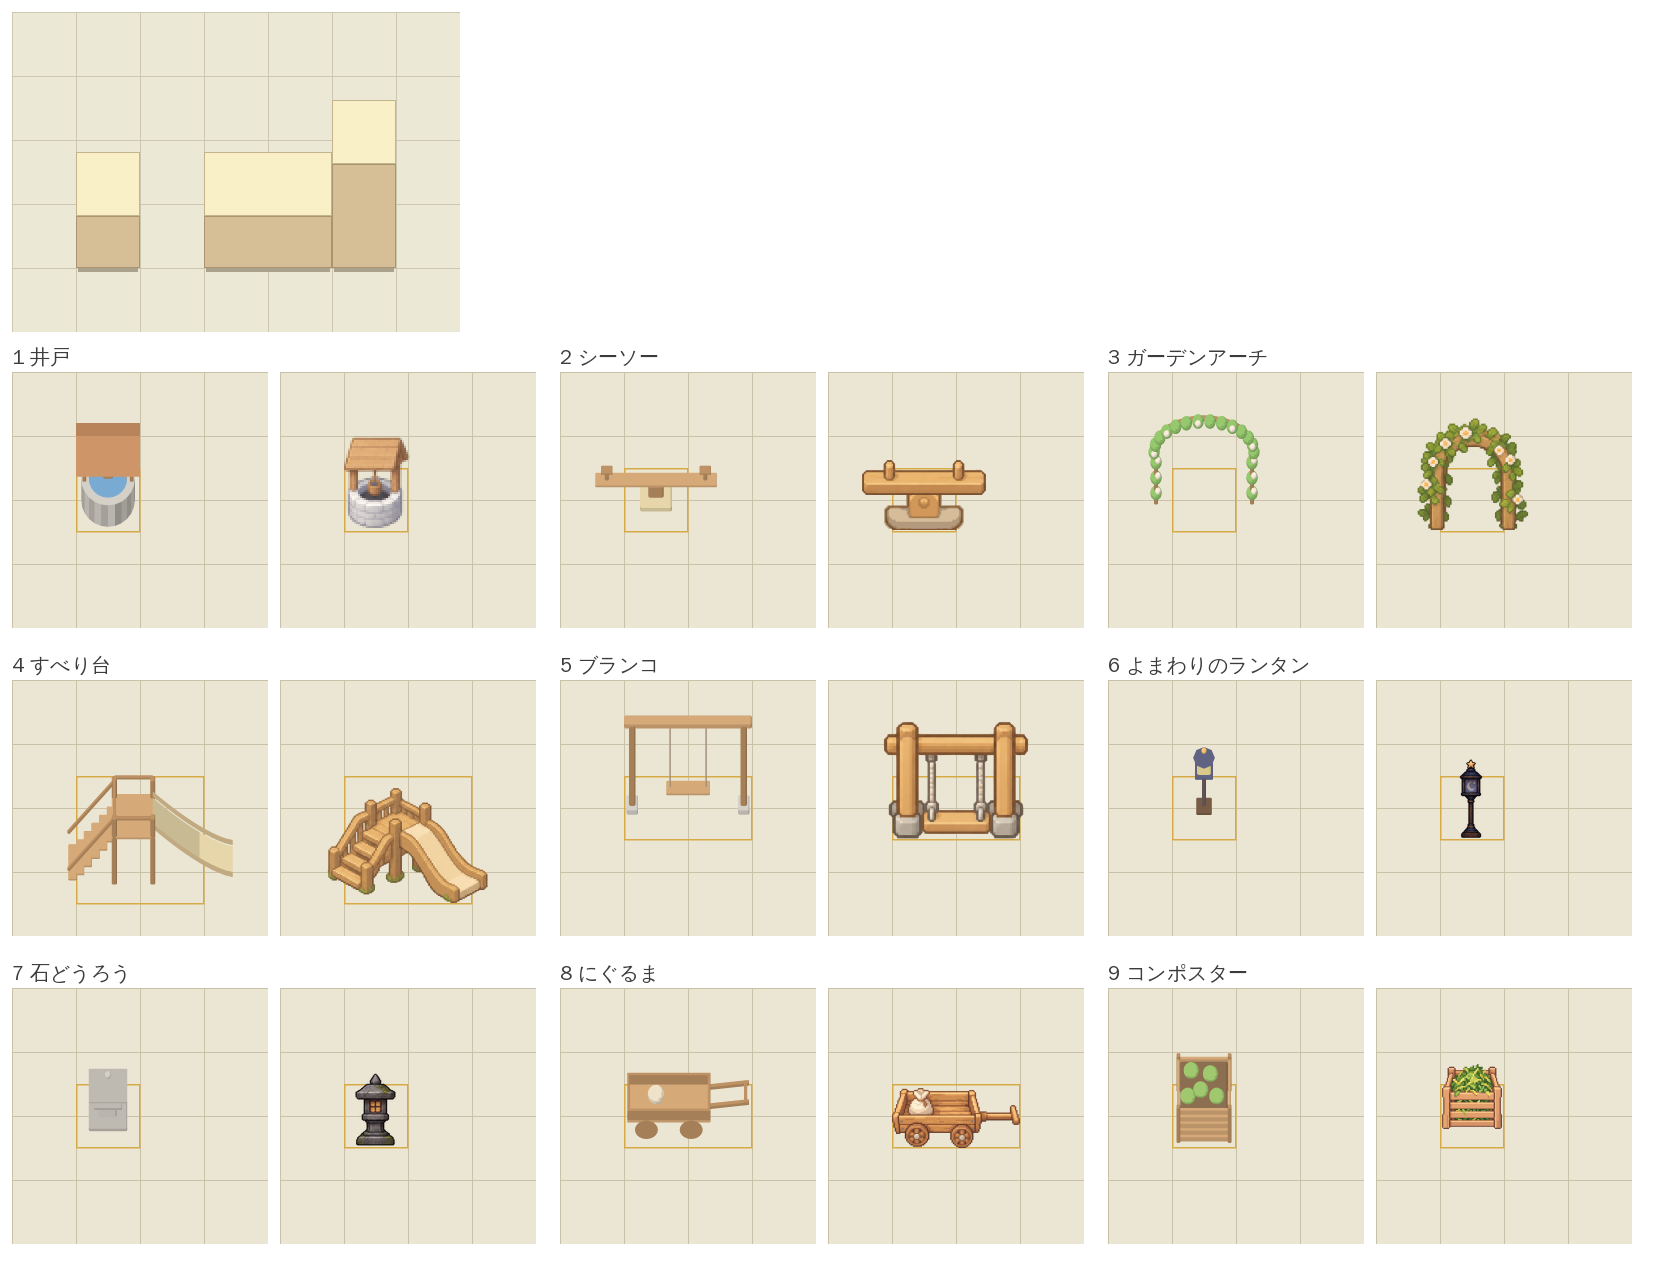
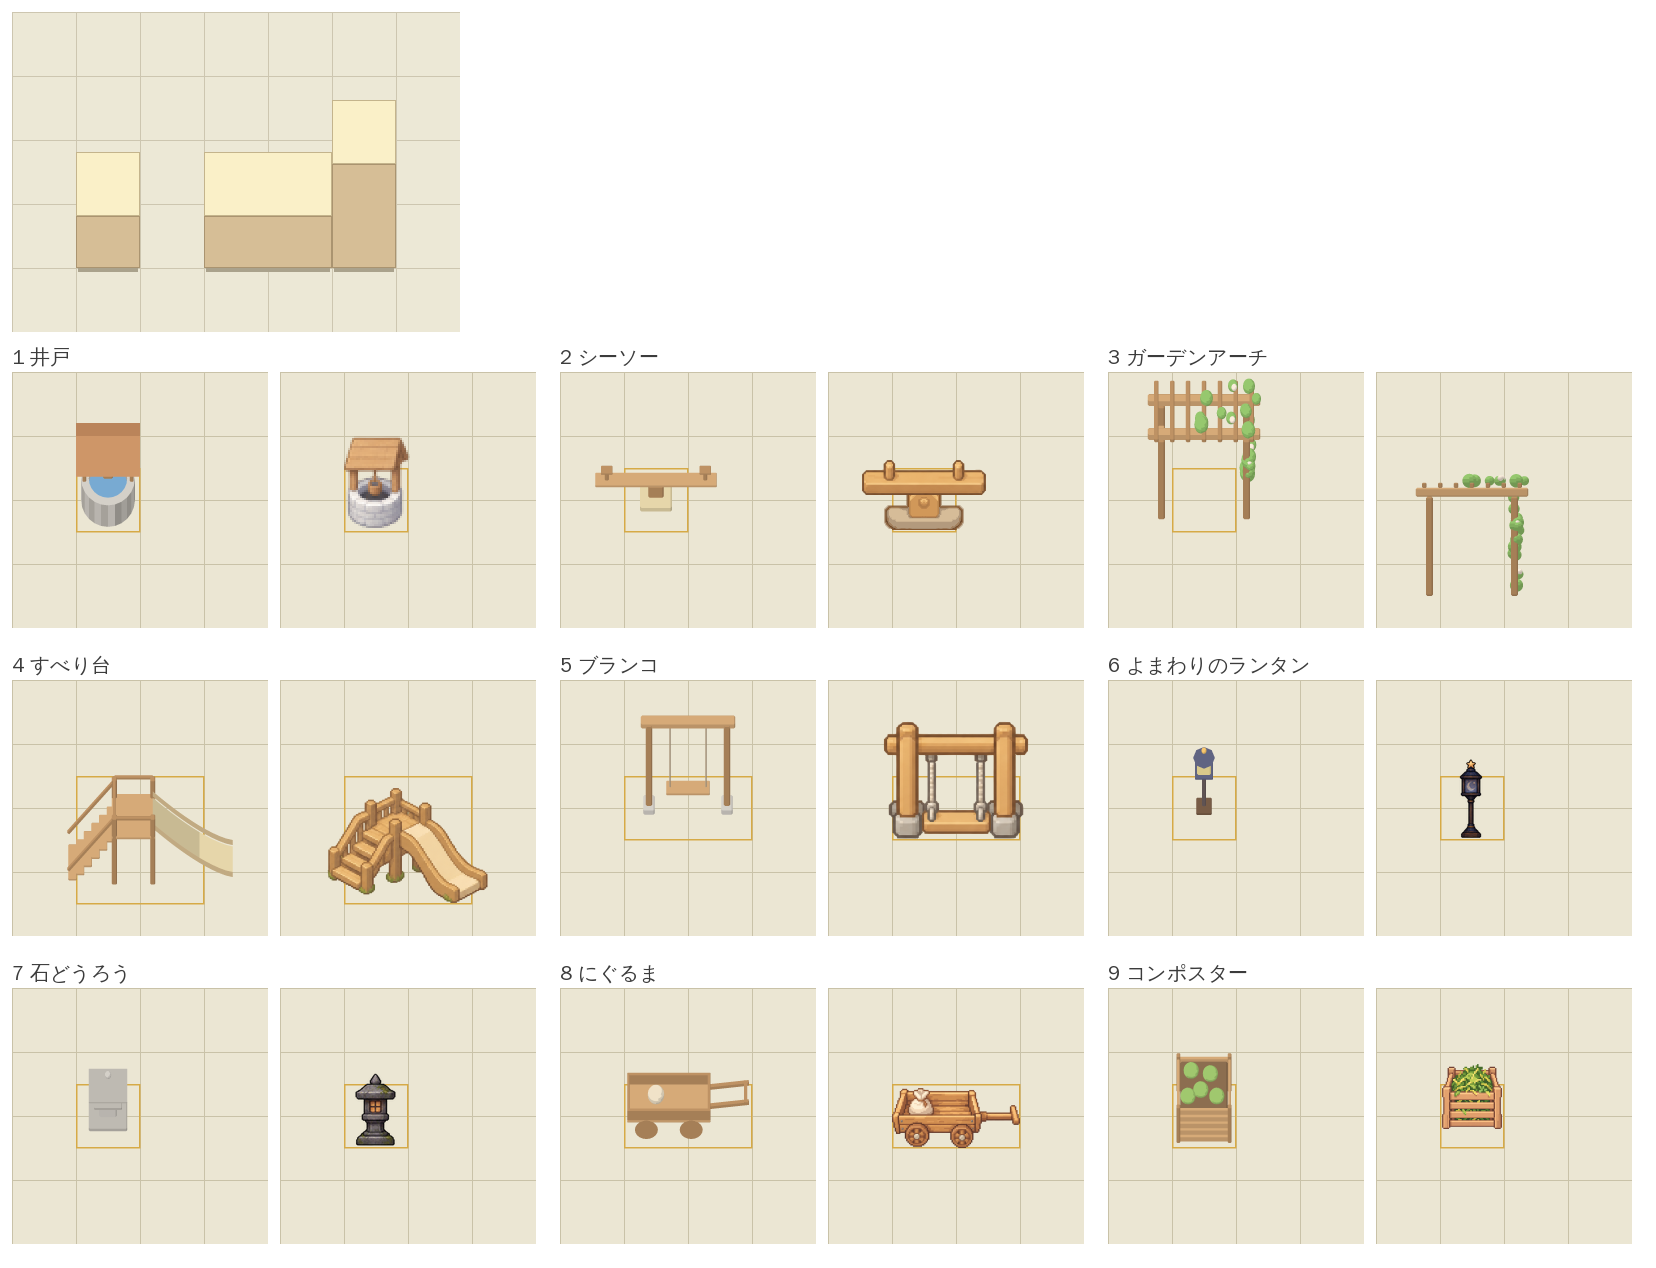
9つの物の3D：ブランコの柱をつめ、ガーデンアーチを木のパーゴラの形にする（プロンプトも）
Claude-Session: https://claude.ai/code/session_01JdcgfQYUXA3eiGLm8RY2PA

diff --git a/tools/art/set9/set9_3d.py b/tools/art/set9/set9_3d.py
@@ -23,15 +23,21 @@ def seesaw(sc):
     sc.box(-0.45,0.4,0.36,1.45,0.6,0.42,WOOD)                                                             # 板（動く部品）
     for x in (-0.3,1.24):sc.box(x,0.46,0.42,x+0.06,0.54,0.6,WOOD2);sc.box(x-0.06,0.44,0.56,x+0.12,0.56,0.6,WOOD2)   # 持ち手
 def arch(sc):
-    for x in (-0.28,1.22):sc.box(x,0.42,0,x+0.06,0.58,1.0,WOOD2)
-    pts=[(0.5+0.78*math.cos(math.pi*i/16),0.5,1.0+0.6*math.sin(math.pi*i/16)) for i in range(17)]
-    sc.tube(pts,0.035,WOOD2)
-    for i in range(14):   # つると花
-        t=i/13;a=math.pi*t;p=(0.5+0.78*math.cos(a),0.5,1.0+0.6*math.sin(a))
-        sc.sphere(p[0],p[1]+0.05,p[2],0.09,LEAF);
-        if i%3==1:sc.sphere(p[0],p[1]+0.1,p[2]+0.03,0.05,FLOW)
-    for x in (-0.25,1.25):
-        for z in (0.2,0.5,0.8):sc.sphere(x,0.55,z,0.09,LEAF);sc.sphere(x+0.03,0.6,z+0.1,0.045,FLOW)
+    """木のパーゴラのアーチ：四すみの角柱、左右の側面ははしごのような格子、上は前後の桁に横木（垂木）をならべ、はしは切りかき。右がわと上につるバラ"""
+    X0,X1,Y0,Y1,H=-0.22,1.22,0.18,0.82,1.55;P=0.11
+    for x in (X0,X1-P):
+        for y in (Y0,Y1-P):sc.box(x,y,0,x+P,y+P,H,WOOD2)                                   # 角柱4本
+        for z in (0.35,0.75,1.15):sc.box(x+0.01,Y0+P,z,x+P-0.01,Y1-P,z+0.05,WOOD)          # 側面の横の桟
+        for y in (Y0+0.24,Y1-0.29):sc.box(x+0.015,y,0.3,x+P-0.015,y+0.04,1.2,WOOD)        # 側面のたての桟
+    for y in (Y0,Y1-P):sc.box(X0-0.16,y,H,X1+0.16,y+P,H+0.14,WOOD)                         # 前後の桁（はしが外へ出る）
+    for i in range(7):                                                                     # 上の横木（垂木）
+        x=X0-0.06+i*(X1-X0+0.05)/6;sc.box(x,Y0-0.14,H+0.14,x+0.07,Y1+0.14,H+0.22,WOOD2)
+    import random;rd=random.Random(3)
+    for k in range(26):   # つるバラ：右の側面と上に、葉のかたまりと白い花
+        if k<14:x=X1-0.04+rd.uniform(-0.06,0.06);y=rd.uniform(Y0,Y1);z=rd.uniform(0.15,H)
+        else:x=rd.uniform(0.4,X1+0.1);y=rd.uniform(Y0-0.05,Y1+0.05);z=H+0.25
+        sc.sphere(x,y,z,rd.uniform(0.07,0.11),LEAF)
+        if k%3==0:sc.sphere(x+0.02,y+0.06,z+0.04,0.045,FLOW)
 def slide(sc):
     sc0=sc
     class T:
@@ -58,8 +64,8 @@ def slide(sc):
         sc.quad((x0,0.72,z0),(x1,0.72,z1),(x1,1.18,z1),(x0,1.18,z0),SAND)
         for y,s in ((0.7,-1),(1.2,1)):sc.quad((x0,y,z0),(x1,y,z1),(x1,y,z1+0.1),(x0,y,z0+0.1),(222,196,150))
 def swing(sc):
-    for x in (0.08,1.82):sc.box(x-0.04,0.38,0,x+0.14,0.62,0.12,STONE,bevel=0.02);sc.box(x,0.42,0.12,x+0.1,0.58,1.7,WOOD2)
-    sc.box(0.0,0.43,1.62,2.0,0.57,1.74,WOOD)
+    for x in (0.34,1.56):sc.box(x-0.04,0.38,0,x+0.14,0.62,0.12,STONE,bevel=0.02);sc.box(x,0.42,0.12,x+0.1,0.58,1.7,WOOD2)   # 柱は少しつめた
+    sc.box(0.26,0.43,1.62,1.74,0.57,1.74,WOOD)
     for x in (0.72,1.28):sc.tube([(x,0.5,1.62),(x,0.5,0.42)],0.012,ROPE)   # 座席となわ（動く部品）
     sc.box(0.66,0.4,0.36,1.34,0.6,0.42,WOOD)
 def yomawari(sc):
@@ -118,5 +124,7 @@ if __name__=='__main__':
     for n,(nm,id,foot,f) in enumerate(OBJS):
         c,r=n%cols,n//cols;x=G+c*(cw+G*2);y=top+r*(PH+TH+G*2)
         d.text((x,y),'%d %s'%(n+1,nm),font=fnt,fill=(60,60,60))
-        sh.paste(panel3d(f,foot),(x,y+TH));sh.paste(panelold(id,foot,C),(x+PW+G,y+TH))
+        sh.paste(panel3d(f,foot),(x,y+TH))
+        if id=='arch':sc=Scene();f(sc);sd=grid_bg((-1.0,3.0,-3.5,0.5));sd.alpha_composite(render(sc,side,(-1.0,3.0,-3.5,0.5),SIDE));sh.paste(sd.resize((PW,PH),Image.BOX),(x+PW+G,y+TH))   # 新しいデザイン：右はまよこの3D
+        else:sh.paste(panelold(id,foot,C),(x+PW+G,y+TH))
     sh.convert('RGB').save(os.path.join(out,'sheet.png'));print('ok',sh.size)

diff --git a/tools/art/set9/prompt.md b/tools/art/set9/prompt.md
@@ -1,6 +1,6 @@
 # 9つの物の絵をたのむプロンプト（井戸・シーソー・ガーデンアーチ・すべり台・ブランコ・よまわりのランタン・石どうろう・にぐるま・コンポスター）
 
-いまの絵のデザインのまま、見おろしの角度だけをゲームに合わせてかきなおしてもらう。
+いまの絵のデザインのまま、見おろしの角度だけをゲームに合わせてかきなおしてもらう。ガーデンアーチだけは新しいデザイン（木のパーゴラ。持ち主の写真のような形）で、シートの右のパネルは、いまの絵のかわりに正面から見た3D。ブランコは柱のあいだを少しつめた。
 わたす絵は1まい：`ref/sheet.png`（`python3 tools/art/set9/set9_3d.py` で作る）。左上がお手本のキューブ。9つの物ごとに、左が3D（角度・大きさ・置く場所のお手本）、右がいまの絵（デザインのお手本）。1マス＝64ドット、黄色いわくが置くマス。
 シーソーの板・ブランコの座席はゲームで動かすので、べつの部品でたのむ。石どうろう・よまわりのランタンは、あかりの消えた絵と、ついた絵の2つ。
 石どうろうは和風の物（火山の物）。すべり台・シーソーは風のステージの遊具（`WIND_STAGE_TOYS`）。ほかは草原から使う洋風の物。
@@ -8,7 +8,7 @@
 ```
 Use the attached reference image as a strict guide. It is one sheet. Top left: a view cube. Below it are nine objects, numbered 1 to 9. For each object there are two panels on a tile grid: the LEFT panel is a 3D block-out that shows the correct camera angle, size and position; the RIGHT panel is the current artwork that shows the design. One faint grid square = one tile = 64 pixels. The yellow frame is the object's footprint.
 
-Task: redraw all nine objects with the same design as the current artwork (right panels): the same parts, colors, materials, details and style. Change only the camera angle and proportions to match the 3D block-outs (left panels). Do not add or remove parts.
+Task: redraw all nine objects with the same design as the current artwork (right panels), except the garden arch (number 3), which has a new design: the same parts, colors, materials, details and style. Change only the camera angle and proportions to match the 3D block-outs (left panels). Do not add or remove parts.
 
 Camera and proportions (copy the view cube and the block-outs exactly):
 - The view is a straight-on, front-facing top-down oblique view (classic top-down RPG angle). The camera looks from the south, tilted down; there is NO rotation and NO isometric angle.
@@ -20,9 +20,9 @@ Camera and proportions (copy the view cube and the block-outs exactly):
 The objects (final size in pixels, 1 tile = 64 pixels):
 1. Well (1x1 tile, about 64 x 104): round stone well with a small gabled wooden roof on two posts, a crossbar, a rope and a wooden bucket. The water inside is pale soft blue.
 2. Seesaw (1x1 tile, the board reaches beyond the tile to the left and right, about 122 x 46): draw it as TWO separate parts: (a) the base with the sandy mound and the wooden pivot block, without the board; (b) the long wooden board with the two handles, perfectly horizontal, alone.
-3. Garden arch (1x1 tile, wider than the tile, about 112 x 90): a wooden arch with two posts and a round top, covered with green leaves and small pale cream flowers.
+3. Garden arch (1x1 tile, wider than the tile, about 113 x 141). NEW DESIGN, not the current artwork: for this object only, the right panel is a straight front view of the 3D block-out instead of the current art. A rectangular wooden pergola-style arch made of natural warm-brown wood: four square upright posts (two in front, two at the back); each side between the front and back post is a ladder-like lattice of thin horizontal and vertical wooden slats; on top, two long beams run left to right with ends sticking out a little, and several thin crossbeams (rafters) lie across them, front to back, with their ends sticking out. Climbing roses grow up the right side and along part of the top: soft green leaves and small white roses. Simple, natural and cozy.
 4. Slide (2x2 tiles, about 166 x 109): a wooden slide: a small platform with rails, wooden steps going down on the left, and a pale sandy slide going down to the right.
-5. Swing (2x1 tiles, about 128 x 99): draw it as TWO separate parts: (a) the frame: two thick upright wooden posts on stone bases and the top beam, without ropes and seat; (b) the seat hanging from two ropes (from the top beam down to the seat), alone.
+5. Swing (2x1 tiles, the posts a little closer together than in the current artwork, about 95 x 99): draw it as TWO separate parts: (a) the frame: two thick upright wooden posts on stone bases and the top beam, without ropes and seat; (b) the seat hanging from two ropes (from the top beam down to the seat), alone.
 6. Night-watch lantern (1x1 tile, about 22 x 68): a slim dark street lamp post with a lantern on top, a crescent moon on the glass and a small star on the top. Draw it TWICE: once unlit (pale glass), once lit (the glass glows with soft pale blue light). Only the glass changes; everything else is pixel-identical.
 7. Stone lantern (1x1 tile, about 39 x 63): a Japanese stone lantern (base, pillar, light box with a small window, square roof, round top knob), with a little moss. Draw it TWICE: once unlit, once lit (the window glows with warm pale orange light). Only the window changes; everything else is pixel-identical.
 8. Cart (2x1 tiles, about 122 x 66): a wooden hand cart with low side boards, wooden wheels, a handle sticking out to the right, and a cloth sack in it.
